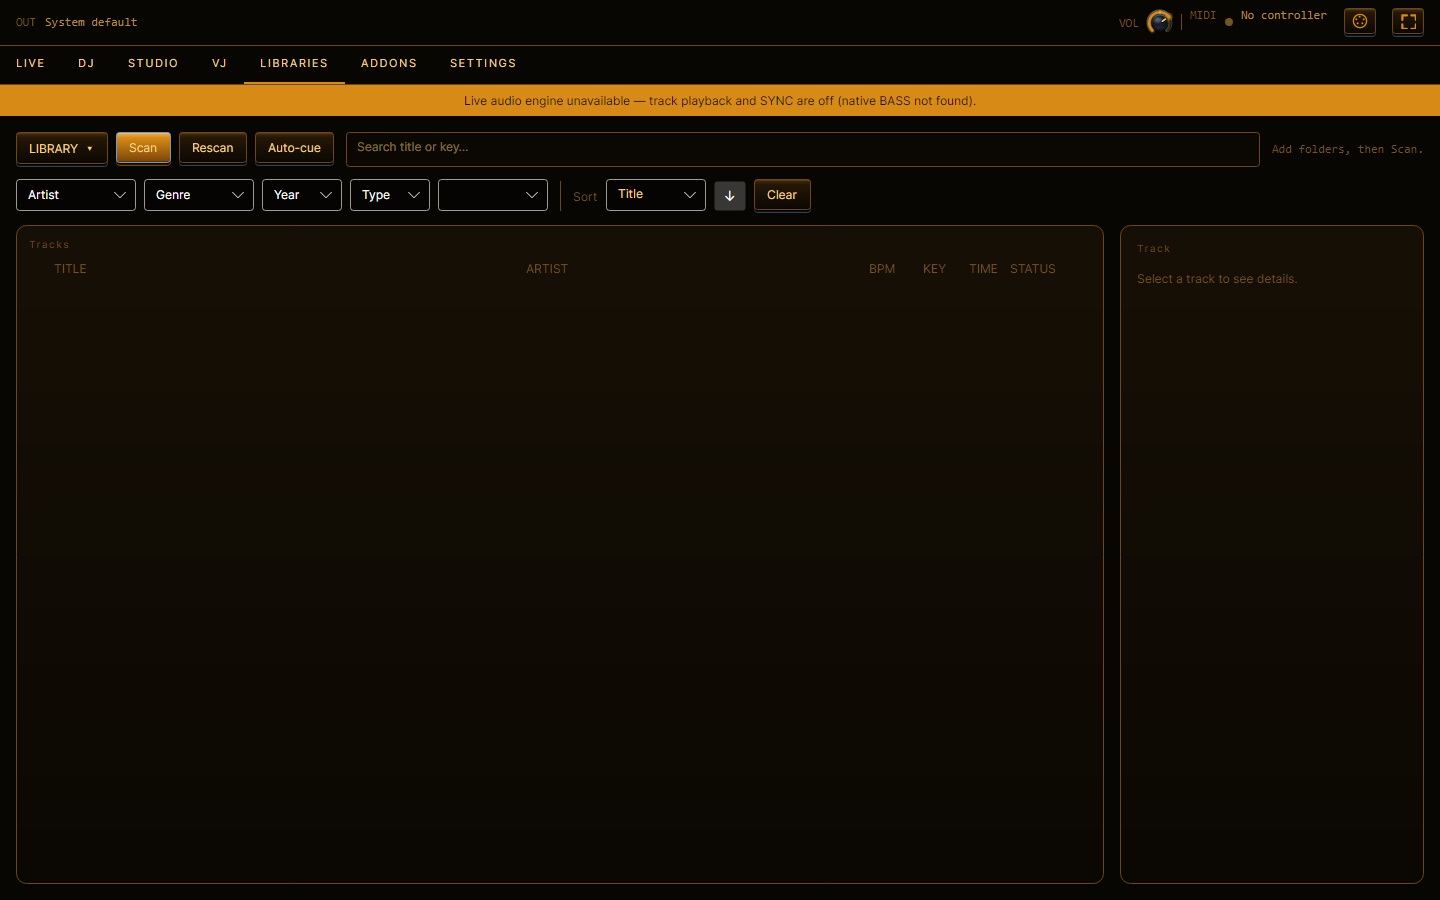
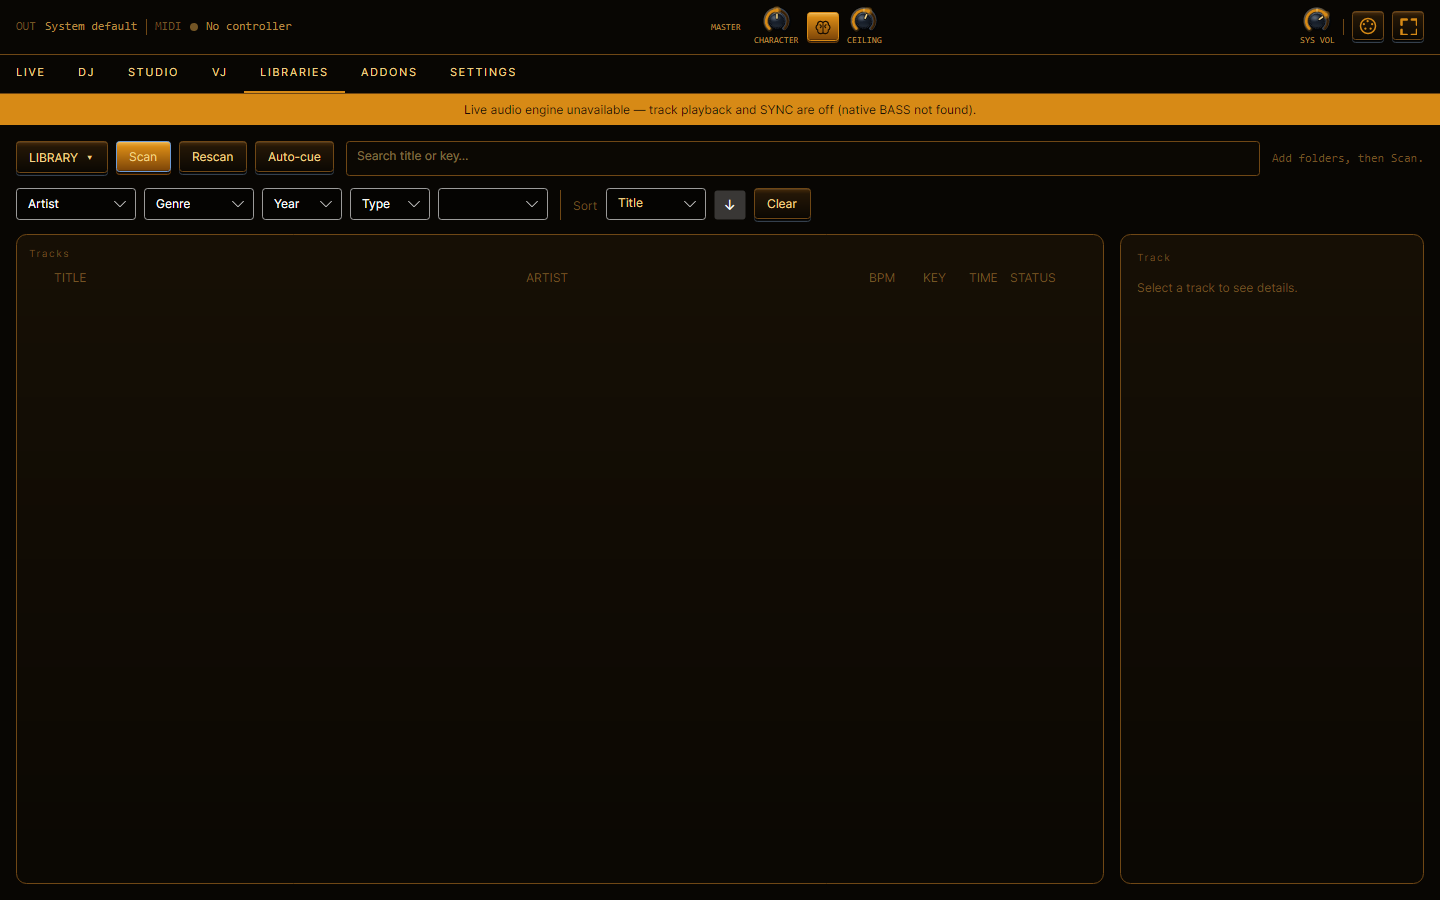
chore(website): refresh v0.1.3 release data and screenshots
Pick up the v0.1.3 installer size and the latest UI-shot screenshots
(incl. the regrouped top bar) produced by the installer build's website
publish step.

diff --git a/website/src/data/site.ts b/website/src/data/site.ts
@@ -15,7 +15,7 @@ export const site = {
   // scripts/publish-website-release.ps1 each time an installer is built.
   version: "0.1.3",
   downloadUrl: "/downloads/LiveolatorSetup-0.1.3.exe",
-  downloadSize: "37 MB",
+  downloadSize: "38 MB",
   repoUrl: "https://github.com/zalmanimrecords-stack/Liveolator",
   // Inquiries + efficiency suggestions land here (mailto, see Feedback form).
   contactEmail: "zalmanimrecords@gmail.com",
